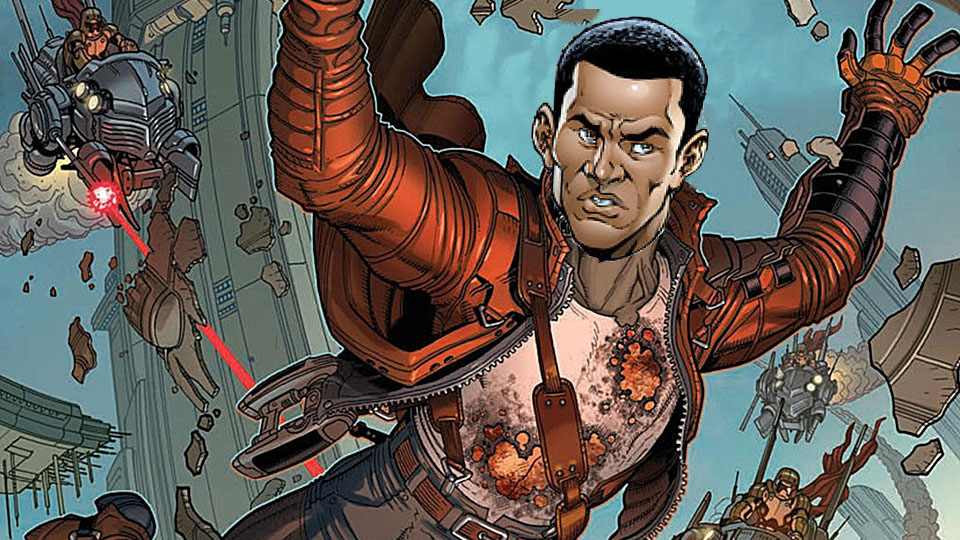
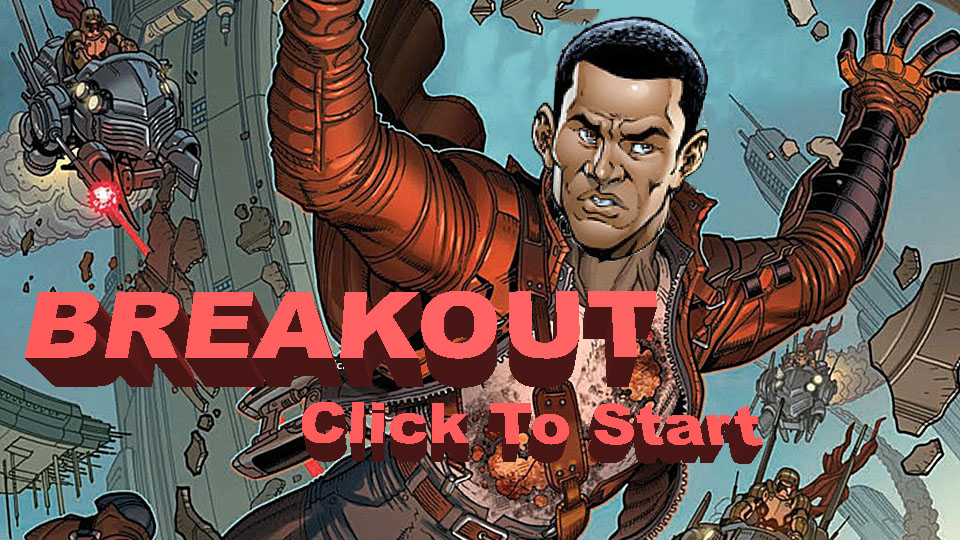
refactor canvas design

Changed region(s): [[0.0, 0.5333, 0.8125, 0.8593]]

diff --git a/lib/Game.js b/lib/Game.js
@@ -13,7 +13,7 @@ class Game {
   constructor(canvas, context, width, height) {
     this.canvas = canvas;
     this.context = context;
-    this.paddle = new Paddle(((800 - 70)/2), 475, 70, 20);
+    this.paddle = new Paddle(((800 - 70)/2), 475, 70, 20, "../Images/paddleO.jpg");
     this.ballsArray = [];
     this.levelOne = [];
     this.levelTwo = [];
@@ -48,7 +48,7 @@ class Game {
     for ( var i = 0; i < 9; i++ ) {
       var x = ((i % 9) * 88) * 1.02;
       var y = 0;
-      this.brick = new Brick (x, y, 88, 28);
+      this.brick = new Brick (x, y, 88, 28, "../Images/brick-galaxy.jpg");
       this.levelTwo.push(this.brick);
     }
   }
@@ -57,7 +57,7 @@ class Game {
     for (var i = 0; i < 45; i++) {
       var x = ((i % 9) * 88) * 1.02;
       var y = ((i % 5) * 88) * 0.35;
-      this.brick = new Brick (x, y, 88, 28);
+      this.brick = new Brick (x, y, 88, 28, "../Images/brick-galaxy.jpg");
         
       levelArray.push(this.brick);
     }
@@ -118,8 +118,7 @@ class Game {
   }
 
   startScreen() {
-    this.context.font = '48px sans-serif';
-    this.context.fillText('BREAKOUT', 265, 200);
+
   }
 
   wins(levelArray) {
@@ -131,15 +130,15 @@ class Game {
 
   newLevelScreen() {
     this.context.clearRect(0,0, this.canvas.width, this.canvas.height);
-    this.context.font = '48px sans-serif';
-    this.context.fillText('NEXT LEVEL', 265, 200);
-    this.context.fillText('click to play', 255, 250);
+    this.context.font = '48px Bungee';
+    this.context.fillText('NEXT LEVEL', 260, 220);
+    this.context.fillText('click to play', 225, 270);
   }
 
   gameWonScreen() {
     this.context.clearRect(0,0, this.canvas.width, this.canvas.height);
-    this.context.font = '48px sans-serif';
-    this.context.fillText('YOU WON!', 265, 200);
+    this.context.font = '48px Bungee';
+    this.context.fillText('YOU WON!', 285, 270);
     // this.context.fillText('click to replay', 255, 250);
   }
 
@@ -156,7 +155,7 @@ class Game {
 
   transitions() {
     if(this.gameOver === true) {
-      this.context.font = '48px sans-serif';
+      this.context.font = '48px Bungee';
       this.context.fillText('Game Over', 265, 300);
       return true;
     }

diff --git a/index.html b/index.html
@@ -4,20 +4,21 @@
   <meta charset="utf-8">
   <title>Game Time</title>
   <link rel="stylesheet" type="text/css" href="CSS/game.css">
+  <link href="https://fonts.googleapis.com/css?family=Bungee" rel="stylesheet">
 </head>
 <body>
   <section class="dashboard">
     <article class="dash-1">
       <p class="score-display">Score:</p>
-      <p class="score-display" id="score-num">0000</p>
+      <p class="score-display" id="score-num">000</p>
     </article>
     <article class="dash-2">
-      <p class="lives-remaining">Balls Remaining:</p>
+      <p class="lives-remaining">Lives:</p>
       <p class="lives-remaining" id="lives-num">3</p>
     </article>
     <article class="dash-3">
       <p class="level-display">Level:</p>
-      <p class="level-display" id="level-num"> 00</p>
+      <p class="level-display" id="level-num"></p>
     </article>
   </section>
 

diff --git a/CSS/game.css b/CSS/game.css
@@ -2,6 +2,12 @@ article {
   display: inline;
 }
 
+body {
+  background-image: url('../Images/background.jpg');
+  background-repeat: no-repeat;
+  background-size: cover;
+}
+
 .dash-1,
 .dash-2,
 .dash-3 {
@@ -22,16 +28,24 @@ article {
   display: inline-block;
   font-size: 22px;
   margin: 0px 10px;
+  color: white;
+  font-family: 'Bungee', cursive;
+}
+
+#start-game{
 }
 
 .reset-button {
   margin-top: 20px;
+  background-color: black;
 }
 
 #game {
+  background-image: url('../Images/obama-start.jpg');
   border: 1px dashed;
   margin: auto;
   margin-top: 50px;
+  opacity: .8;
   display: block;
 }
 

diff --git a/lib/GamePiece.js b/lib/GamePiece.js
@@ -1,13 +1,17 @@
 class GamePiece {
-  constructor(x, y, width, height) {
+  constructor(x, y, width, height, src) {
     this.x = x;
     this.y = y;
     this.width = width;
     this.height = height;
+    this.imageSrc = src;
   }
 
   draw(context) {
-    context.fillRect(this.x, this.y, this.width, this.height);
+    var image = new Image();
+    image.src = this.imageSrc;
+    context.drawImage(image, this.x, this.y, this.width, this.height)
+    // context.fillRect(this.x, this.y, this.width, this.height);
     return this;
   }
 }

diff --git a/lib/index.js b/lib/index.js
@@ -18,7 +18,7 @@ resetButton.addEventListener('click', resetGame);
 
 $('.dashboard').hide();
 
-game.startScreen();
+// game.startScreen();
 game.createBalls();
 game.createBricks(game.levelOne);
 
@@ -34,6 +34,7 @@ function moveLevel() {
 }
 
 function startGame() {
+  canvas.style.backgroundImage = "url('../Images/canvas-background.jpg')"
   canvas.removeEventListener('click', startGame);
   game.startGame();
 }

diff --git a/lib/Brick.js b/lib/Brick.js
@@ -1,8 +1,8 @@
 const GamePiece = require('./GamePiece');
 
 class Brick extends GamePiece{
-  constructor(x, y, width, height) {
-    super(x, y, width, height);
+  constructor(x, y, width, height, src) {
+    super(x, y, width, height, src);
   }
 
   brickCollision(ball) {

diff --git a/lib/Paddle.js b/lib/Paddle.js
@@ -1,8 +1,8 @@
 const GamePiece = require('./GamePiece');
 
 class Paddle extends GamePiece {
-  constructor(x, y, width, height) {
-    super(x, y, width, height)
+  constructor(x, y, width, height, src) {
+    super(x, y, width, height, src)
   }
 
   stopPaddle() {

diff --git a/lib/Ball.js b/lib/Ball.js
@@ -15,6 +15,8 @@ class Ball extends GamePiece{
     context.beginPath()
     context.arc(this.x, this.y, this.radius, this.startAngle, this.endAngle);
     context.stroke()
+    context.fill();
+    context.fillStyle = 'rgb(104,211,255)'
     return this;
   }
 
